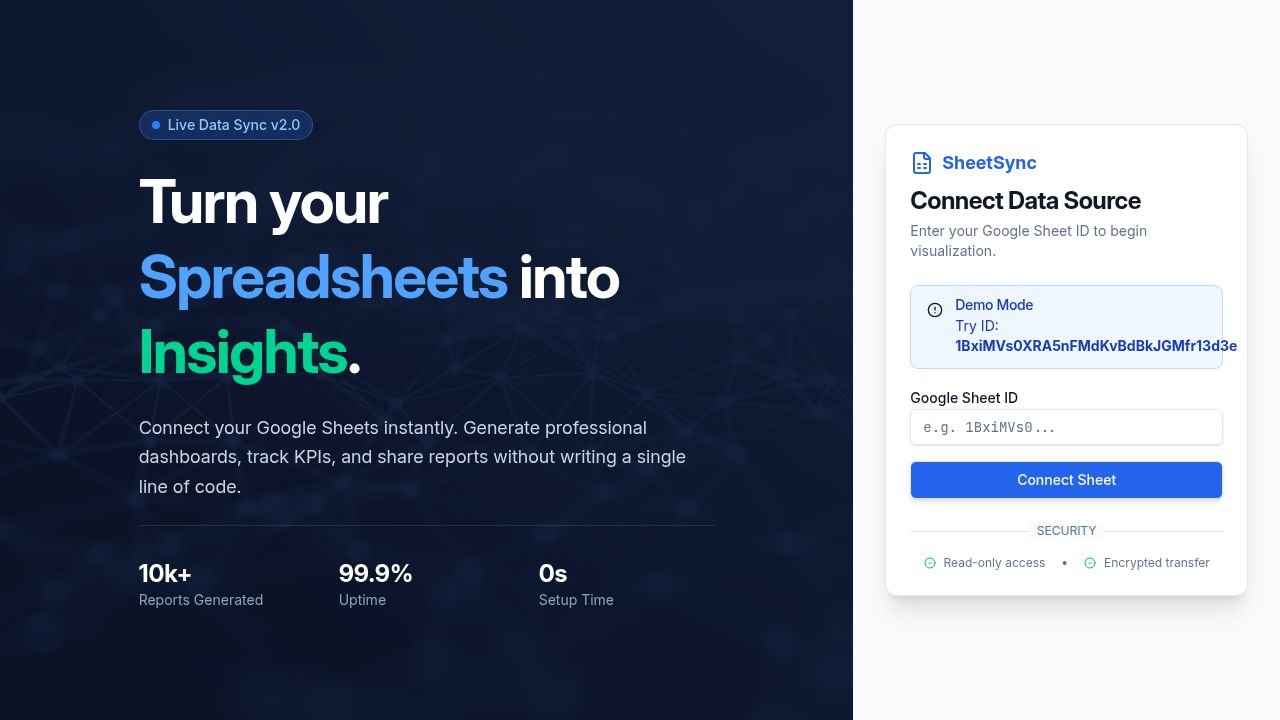
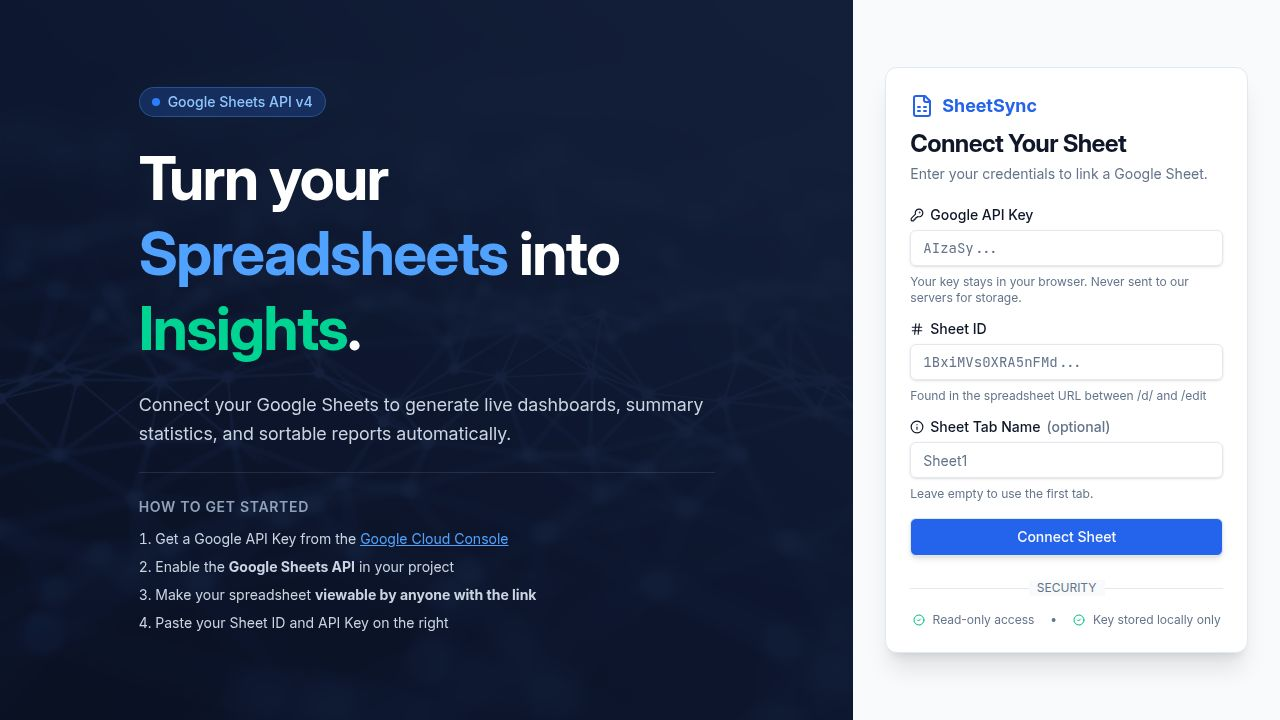
Improve spreadsheet connection guidance and error handling
Enhance the client-side home page with an accordion-based setup guide and more specific error messages for spreadsheet connections. Update server-side API route handlers to provide detailed error types and user-friendly explanations for common issues like API enablement, invalid keys, and forbidden access.

Replit-Commit-Author: Agent
Replit-Commit-Session-Id: 3781f10f-6d29-47c9-8dad-7fc4f5ff4d01
Replit-Commit-Checkpoint-Type: full_checkpoint
Replit-Commit-Event-Id: 35c52540-7e99-4515-a77c-b3667329fe9f
Replit-Commit-Screenshot-Url: https://storage.googleapis.com/screenshot-production-us-central1/525a46b0-87df-4727-bde7-bc261525bb8a/3781f10f-6d29-47c9-8dad-7fc4f5ff4d01/2zONvDZ
Replit-Helium-Checkpoint-Created: true

diff --git a/client/src/pages/home.tsx b/client/src/pages/home.tsx
@@ -8,10 +8,16 @@ import { Button } from "@/components/ui/button";
 import { Input } from "@/components/ui/input";
 import { Form, FormControl, FormField, FormItem, FormLabel, FormMessage, FormDescription } from "@/components/ui/form";
 import { Alert, AlertDescription, AlertTitle } from "@/components/ui/alert";
-import { Loader2, AlertCircle, CheckCircle2, FileSpreadsheet, KeyRound, Hash, Info } from "lucide-react";
+import { Loader2, AlertCircle, CheckCircle2, FileSpreadsheet, KeyRound, Hash, Info, ExternalLink, Copy } from "lucide-react";
 import { validateSheet, saveConfig, type SheetConfig } from "@/lib/sheets-api";
 import { useToast } from "@/hooks/use-toast";
 import heroBg from "@/assets/hero-bg.png";
+import {
+  Accordion,
+  AccordionContent,
+  AccordionItem,
+  AccordionTrigger,
+} from "@/components/ui/accordion";
 
 const formSchema = z.object({
   sheetId: z.string().min(5, "Sheet ID must be at least 5 characters"),
@@ -24,6 +30,7 @@ export default function Home() {
   const { toast } = useToast();
   const [isLoading, setIsLoading] = useState(false);
   const [validationError, setValidationError] = useState<string | null>(null);
+  const [errorType, setErrorType] = useState<string | null>(null);
 
   const form = useForm<z.infer<typeof formSchema>>({
     resolver: zodResolver(formSchema),
@@ -37,12 +44,13 @@ export default function Home() {
   async function onSubmit(values: z.infer<typeof formSchema>) {
     setIsLoading(true);
     setValidationError(null);
+    setErrorType(null);
 
     try {
       const config: SheetConfig = {
-        sheetId: values.sheetId,
-        apiKey: values.apiKey,
-        sheetName: values.sheetName || undefined,
+        sheetId: values.sheetId.trim(),
+        apiKey: values.apiKey.trim(),
+        sheetName: values.sheetName?.trim() || undefined,
       };
 
       const result = await validateSheet(config);
@@ -61,9 +69,10 @@ export default function Home() {
         setTimeout(() => setLocation("/dashboard"), 800);
       } else {
         setValidationError(result.error || "Could not connect to the spreadsheet.");
+        setErrorType((result as any).errorType || null);
       }
     } catch (error: any) {
-      setValidationError("Network error. Please check your connection and try again.");
+      setValidationError("Network error. Please check your internet connection and try again.");
     } finally {
       setIsLoading(false);
     }
@@ -72,7 +81,7 @@ export default function Home() {
   return (
     <div className="min-h-screen flex flex-col lg:flex-row bg-background">
       {/* Hero Section */}
-      <div className="relative w-full lg:w-2/3 bg-slate-900 overflow-hidden flex flex-col justify-center items-center text-white p-8 md:p-12 min-h-[300px] lg:min-h-screen">
+      <div className="relative w-full lg:w-1/2 xl:w-2/3 bg-slate-900 overflow-hidden flex flex-col justify-center items-center text-white p-8 md:p-12 min-h-[300px] lg:min-h-screen">
         <div
           className="absolute inset-0 z-0 opacity-40 mix-blend-overlay"
           style={{
@@ -89,7 +98,7 @@ export default function Home() {
             </span>
             Google Sheets API v4
           </div>
-          <h1 className="text-4xl md:text-6xl font-bold tracking-tight leading-tight">
+          <h1 className="text-4xl md:text-5xl font-bold tracking-tight leading-tight">
             Turn your <span className="text-blue-400">Spreadsheets</span> into{" "}
             <span className="text-emerald-400">Insights</span>.
           </h1>
@@ -97,20 +106,73 @@ export default function Home() {
             Connect your Google Sheets to generate live dashboards, summary statistics, and sortable reports automatically.
           </p>
 
-          <div className="space-y-3 pt-6 border-t border-white/10">
-            <h3 className="text-sm font-semibold text-slate-400 uppercase tracking-wider">How to get started</h3>
-            <ol className="list-decimal list-inside text-sm text-slate-300 space-y-2">
-              <li>Get a Google API Key from the <a href="https://console.cloud.google.com/apis/credentials" target="_blank" rel="noopener" className="text-blue-400 underline">Google Cloud Console</a></li>
-              <li>Enable the <strong>Google Sheets API</strong> in your project</li>
-              <li>Make your spreadsheet <strong>viewable by anyone with the link</strong></li>
-              <li>Paste your Sheet ID and API Key on the right</li>
-            </ol>
+          {/* Setup Guide Accordion */}
+          <div className="pt-6 border-t border-white/10">
+            <h3 className="text-sm font-semibold text-slate-400 uppercase tracking-wider mb-4">Setup Guide</h3>
+            <Accordion type="single" collapsible className="space-y-2">
+              <AccordionItem value="step1" className="border border-white/10 rounded-lg px-4 bg-white/5">
+                <AccordionTrigger className="text-sm text-slate-200 hover:no-underline">
+                  Step 1: Create a Google API Key
+                </AccordionTrigger>
+                <AccordionContent className="text-sm text-slate-300 space-y-2">
+                  <ol className="list-decimal list-inside space-y-1.5">
+                    <li>Go to <a href="https://console.cloud.google.com/apis/credentials" target="_blank" rel="noopener" className="text-blue-400 underline inline-flex items-center gap-1">Google Cloud Console <ExternalLink className="w-3 h-3" /></a></li>
+                    <li>Create a new project (or select an existing one)</li>
+                    <li>Click <strong>"+ CREATE CREDENTIALS"</strong> at the top</li>
+                    <li>Select <strong>"API key"</strong></li>
+                    <li>Copy the generated key</li>
+                  </ol>
+                </AccordionContent>
+              </AccordionItem>
+
+              <AccordionItem value="step2" className="border border-white/10 rounded-lg px-4 bg-white/5">
+                <AccordionTrigger className="text-sm text-slate-200 hover:no-underline">
+                  Step 2: Enable Google Sheets API
+                </AccordionTrigger>
+                <AccordionContent className="text-sm text-slate-300 space-y-2">
+                  <ol className="list-decimal list-inside space-y-1.5">
+                    <li>In Google Cloud Console, go to <a href="https://console.cloud.google.com/apis/library/sheets.googleapis.com" target="_blank" rel="noopener" className="text-blue-400 underline inline-flex items-center gap-1">Sheets API page <ExternalLink className="w-3 h-3" /></a></li>
+                    <li>Click the blue <strong>"ENABLE"</strong> button</li>
+                    <li>Wait a few seconds for it to activate</li>
+                  </ol>
+                  <p className="text-amber-300 text-xs mt-2">This is the most commonly missed step!</p>
+                </AccordionContent>
+              </AccordionItem>
+
+              <AccordionItem value="step3" className="border border-white/10 rounded-lg px-4 bg-white/5">
+                <AccordionTrigger className="text-sm text-slate-200 hover:no-underline">
+                  Step 3: Share Your Spreadsheet
+                </AccordionTrigger>
+                <AccordionContent className="text-sm text-slate-300 space-y-2">
+                  <ol className="list-decimal list-inside space-y-1.5">
+                    <li>Open your Google Spreadsheet</li>
+                    <li>Click the <strong>"Share"</strong> button (top-right)</li>
+                    <li>Under "General access", change to <strong>"Anyone with the link"</strong></li>
+                    <li>Set the role to <strong>"Viewer"</strong></li>
+                    <li>Click <strong>"Done"</strong></li>
+                  </ol>
+                </AccordionContent>
+              </AccordionItem>
+
+              <AccordionItem value="step4" className="border border-white/10 rounded-lg px-4 bg-white/5">
+                <AccordionTrigger className="text-sm text-slate-200 hover:no-underline">
+                  Step 4: Find Your Sheet ID
+                </AccordionTrigger>
+                <AccordionContent className="text-sm text-slate-300 space-y-2">
+                  <p>Your Sheet ID is in the spreadsheet URL:</p>
+                  <div className="bg-black/30 rounded p-2 font-mono text-xs break-all">
+                    https://docs.google.com/spreadsheets/d/<span className="text-emerald-400 font-bold">1BxiMVs0XRA5nFMdKvBdBZjGmuDJp6...</span>/edit
+                  </div>
+                  <p className="text-xs">Copy the highlighted part between <code>/d/</code> and <code>/edit</code></p>
+                </AccordionContent>
+              </AccordionItem>
+            </Accordion>
           </div>
         </div>
       </div>
 
       {/* Form Section */}
-      <div className="w-full lg:w-1/3 flex items-center justify-center p-6 md:p-8 bg-background">
+      <div className="w-full lg:w-1/2 xl:w-1/3 flex items-center justify-center p-6 md:p-8 bg-background">
         <Card className="w-full max-w-md shadow-xl border-slate-200 dark:border-slate-800">
           <CardHeader className="space-y-1">
             <div className="flex items-center gap-2 text-primary mb-2">
@@ -119,7 +181,7 @@ export default function Home() {
             </div>
             <CardTitle className="text-2xl font-bold">Connect Your Sheet</CardTitle>
             <CardDescription>
-              Enter your credentials to link a Google Sheet.
+              Enter your Google API Key and Sheet ID to get started.
             </CardDescription>
           </CardHeader>
           <CardContent className="space-y-4">
@@ -127,7 +189,17 @@ export default function Home() {
               <Alert variant="destructive">
                 <AlertCircle className="h-4 w-4" />
                 <AlertTitle>Connection Failed</AlertTitle>
-                <AlertDescription>{validationError}</AlertDescription>
+                <AlertDescription className="text-sm mt-1">{validationError}</AlertDescription>
+                {errorType === "API_NOT_ENABLED" && (
+                  <a
+                    href="https://console.cloud.google.com/apis/library/sheets.googleapis.com"
+                    target="_blank"
+                    rel="noopener"
+                    className="mt-2 inline-flex items-center gap-1 text-sm font-medium underline"
+                  >
+                    Enable Google Sheets API <ExternalLink className="w-3 h-3" />
+                  </a>
+                )}
               </Alert>
             )}
 
@@ -146,7 +218,7 @@ export default function Home() {
                         <Input type="password" placeholder="AIzaSy..." {...field} className="font-mono text-sm" data-testid="input-api-key" />
                       </FormControl>
                       <FormDescription className="text-xs">
-                        Your key stays in your browser. Never sent to our servers for storage.
+                        From Google Cloud Console &gt; Credentials
                       </FormDescription>
                       <FormMessage />
                     </FormItem>
@@ -166,7 +238,7 @@ export default function Home() {
                         <Input placeholder="1BxiMVs0XRA5nFMd..." {...field} className="font-mono text-sm" data-testid="input-sheet-id" />
                       </FormControl>
                       <FormDescription className="text-xs">
-                        Found in the spreadsheet URL between /d/ and /edit
+                        The long string from your spreadsheet URL
                       </FormDescription>
                       <FormMessage />
                     </FormItem>
@@ -180,13 +252,13 @@ export default function Home() {
                     <FormItem>
                       <FormLabel className="flex items-center gap-1.5">
                         <Info className="w-3.5 h-3.5" />
-                        Sheet Tab Name <span className="text-muted-foreground">(optional)</span>
+                        Tab Name <span className="text-muted-foreground font-normal">(optional)</span>
                       </FormLabel>
                       <FormControl>
                         <Input placeholder="Sheet1" {...field} className="text-sm" data-testid="input-sheet-name" />
                       </FormControl>
                       <FormDescription className="text-xs">
-                        Leave empty to use the first tab.
+                        Leave empty to use the first tab
                       </FormDescription>
                       <FormMessage />
                     </FormItem>

diff --git a/server/routes.ts b/server/routes.ts
@@ -16,8 +16,15 @@ export async function registerRoutes(
 
   app.post("/api/sheets/validate", async (req, res) => {
     try {
-      const { sheetId, apiKey } = fetchSheetSchema.parse(req.body);
+      const parsed = fetchSheetSchema.safeParse(req.body);
+      if (!parsed.success) {
+        return res.status(400).json({
+          valid: false,
+          error: "Please provide a valid Sheet ID (at least 5 characters) and API Key (at least 10 characters).",
+        });
+      }
 
+      const { sheetId, apiKey } = parsed.data;
       const sheets = google.sheets({ version: "v4", auth: apiKey });
 
       const spreadsheet = await sheets.spreadsheets.get({
@@ -34,25 +41,70 @@ export async function registerRoutes(
         sheetNames,
       });
     } catch (error: any) {
-      const status = error?.response?.status || error?.code;
-      if (status === 403 || status === 401) {
-        return res.status(401).json({ valid: false, error: "Invalid API Key or insufficient permissions." });
+      const gaxiosError = error?.response?.data?.error;
+      const httpStatus = error?.response?.status || error?.code;
+      const errorMessage = gaxiosError?.message || error?.message || "";
+
+      console.error("Sheet validation error:", httpStatus, errorMessage);
+
+      if (httpStatus === 403) {
+        if (errorMessage.includes("API has not been used") || errorMessage.includes("API has not been enabled") || errorMessage.includes("sheets.googleapis.com")) {
+          return res.status(403).json({
+            valid: false,
+            error: "The Google Sheets API is not enabled for your project. Go to Google Cloud Console > APIs & Services > Enable APIs, search for 'Google Sheets API' and enable it.",
+            errorType: "API_NOT_ENABLED",
+          });
+        }
+        return res.status(403).json({
+          valid: false,
+          error: "Access denied. This could mean: (1) Your API key is invalid or restricted, (2) The spreadsheet is not shared publicly. Make the sheet 'Anyone with the link can view'.",
+          errorType: "FORBIDDEN",
+        });
       }
-      if (status === 404) {
-        return res.status(404).json({ valid: false, error: "Spreadsheet not found. Check the Sheet ID and make sure it is shared publicly or with your service account." });
+
+      if (httpStatus === 401) {
+        return res.status(401).json({
+          valid: false,
+          error: "Invalid API Key. Please double-check it in Google Cloud Console > APIs & Services > Credentials.",
+          errorType: "INVALID_KEY",
+        });
       }
-      console.error("Sheet validation error:", error?.message || error);
-      return res.status(400).json({ valid: false, error: "Could not access this spreadsheet. Please verify the Sheet ID and API Key." });
+
+      if (httpStatus === 404) {
+        return res.status(404).json({
+          valid: false,
+          error: "Spreadsheet not found. Make sure the Sheet ID is correct (it's the long string in the URL between '/d/' and '/edit').",
+          errorType: "NOT_FOUND",
+        });
+      }
+
+      if (httpStatus === 400) {
+        return res.status(400).json({
+          valid: false,
+          error: "Invalid request. The Sheet ID format appears incorrect. Copy it from your spreadsheet URL.",
+          errorType: "BAD_REQUEST",
+        });
+      }
+
+      return res.status(500).json({
+        valid: false,
+        error: `Connection failed: ${errorMessage || "Unknown error"}. Please verify your API Key and Sheet ID.`,
+        errorType: "UNKNOWN",
+      });
     }
   });
 
   app.post("/api/sheets/data", async (req, res) => {
     try {
-      const { sheetId, apiKey, sheetName } = fetchSheetSchema.parse(req.body);
+      const parsed = fetchSheetSchema.safeParse(req.body);
+      if (!parsed.success) {
+        return res.status(400).json({ error: "Invalid request parameters." });
+      }
 
+      const { sheetId, apiKey, sheetName } = parsed.data;
       const sheets = google.sheets({ version: "v4", auth: apiKey });
 
-      const range = sheetName ? `${sheetName}` : "Sheet1";
+      const range = sheetName || "Sheet1";
 
       const response = await sheets.spreadsheets.values.get({
         spreadsheetId: sheetId,
@@ -93,10 +145,20 @@ export async function registerRoutes(
         lastUpdated: new Date().toISOString(),
       });
     } catch (error: any) {
-      console.error("Sheet data fetch error:", error?.message || error);
-      const status = error?.response?.status || 500;
-      return res.status(status >= 400 ? status : 500).json({
-        error: "Failed to fetch sheet data. Please verify your Sheet ID, API Key, and sheet name.",
+      const gaxiosError = error?.response?.data?.error;
+      const httpStatus = error?.response?.status;
+      const errorMessage = gaxiosError?.message || error?.message || "Unknown error";
+
+      console.error("Sheet data fetch error:", httpStatus, errorMessage);
+
+      if (httpStatus === 400 && errorMessage.includes("Unable to parse range")) {
+        return res.status(400).json({
+          error: `Sheet tab "${req.body.sheetName}" was not found. Check the exact tab name in your spreadsheet (it's case-sensitive).`,
+        });
+      }
+
+      return res.status(httpStatus >= 400 ? httpStatus : 500).json({
+        error: `Failed to fetch data: ${errorMessage}`,
       });
     }
   });
